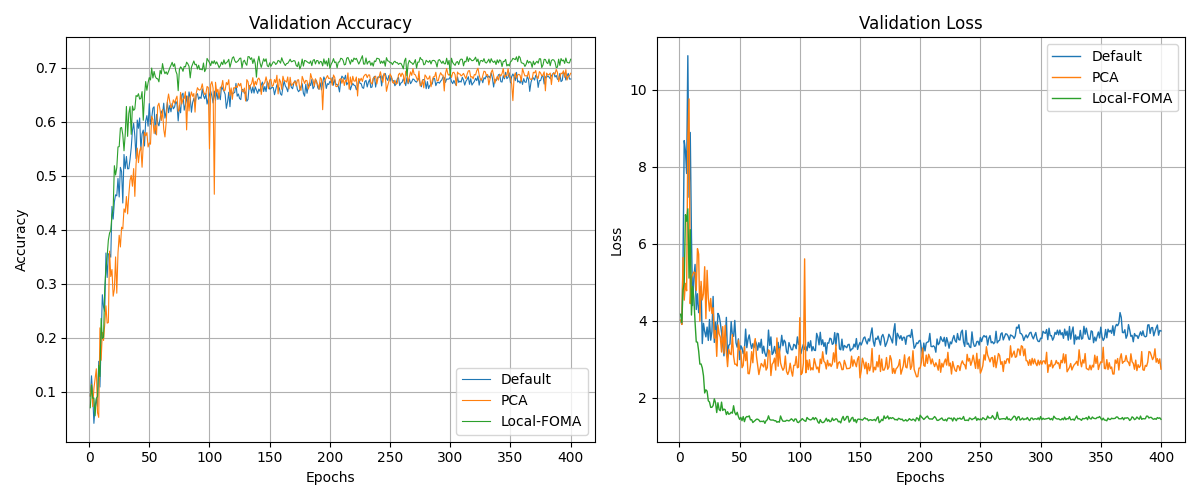
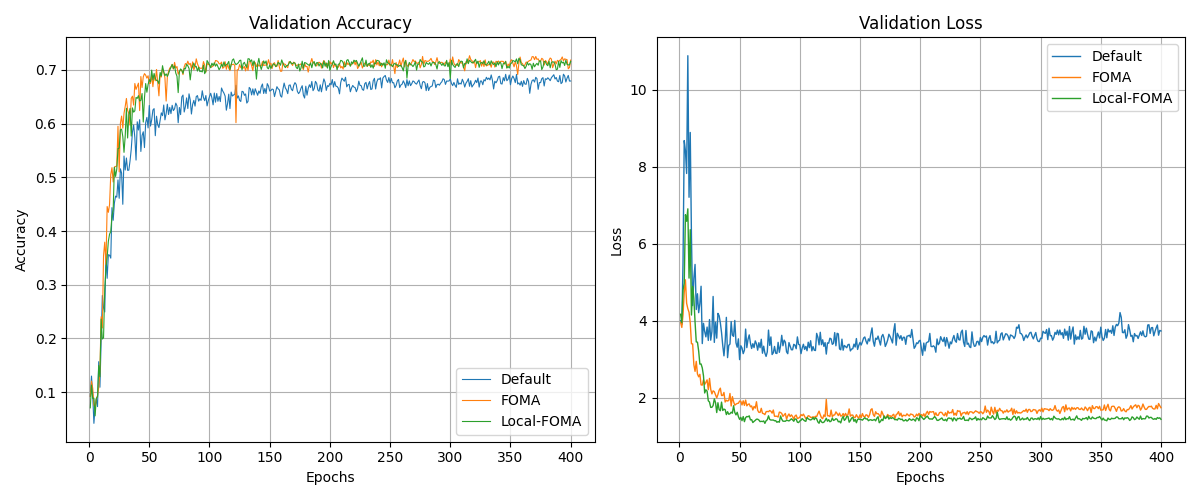
foma-knn-curriculum

diff --git a/src/methods/foma.py b/src/methods/foma.py
@@ -125,7 +125,7 @@ def local_foma(
     return X_aug, Y_aug
 
 
-def compute_foma_loss(model, images, labels, augment, lambda_almp=1.0, device='cuda'):
+def compute_foma_loss(model, images, labels, augment, k, lambda_almp=1.0, device='cuda'):
     model.train()
     images = images.to(device)
     labels = labels.to(device)
@@ -141,7 +141,7 @@ def compute_foma_loss(model, images, labels, augment, lambda_almp=1.0, device='c
     if augment == "FOMA":
         features_foma, labels_foma = foma(features, labels, num_classes=100, alpha=1.0, rho=0.9)
     elif augment == "Local-FOMA" or augment == "FOMA-scaleup":
-        features_foma, labels_foma = local_foma(features, labels, num_classes=100, alpha=1.0, rho=0.9)
+        features_foma, labels_foma = local_foma(features, labels, num_classes=100, alpha=1.0, rho=0.9, k=k)
     logits_foma = model.linear(features_foma)
     loss_foma = F.cross_entropy(logits_foma, labels_foma)
     # loss_foma = F.kl_div(

diff --git a/src/utils.py b/src/utils.py
@@ -183,6 +183,17 @@ def train(model, train_loader, criterion, optimizer, device, augment, num_classe
         elif augment == "Local-FOMA":
             loss, preds = compute_foma_loss(model, images, labels, augment, lambda_almp=1.0, device=device)
         
+        elif augment == "FOMA-knn-Curriculum":
+            if epochs < 100:
+                k = 10
+            elif epochs >= 100 and epochs < 200:
+                k = 20
+            elif epochs >= 200 and epochs < 300:
+                k = 30
+            elif epochs >= 300 and epochs < 400:
+                k = 40
+            loss, preds = compute_foma_loss(model, images, labels, augment, k, lambda_almp=1.0, device=device)
+        
         elif augment == "PCA":
             loss, preds = compute_almp_loss_wrn(model, images, labels, method="pca", lambda_almp=1.0, device=device)
         

diff --git a/train.py b/train.py
@@ -56,8 +56,9 @@ augmentations = [
     # "FOMA-scaleup"
     # "Mixup+FOMA",
     # "FOMix",
-    "Local-FOMA",
+    # "Local-FOMA",
     # "FOMA",
+    "FOMA-knn-Curriculum",
 
     # "Mixup-Original",
     # "Mixup-PCA",
@@ -66,7 +67,7 @@ augmentations = [
 ]
 
 def main():
-    for i in range(2, 3):
+    for i in range(1):
         parser = argparse.ArgumentParser()
         parser.add_argument("--epochs",     type=int, default=400)
         parser.add_argument("--data_type",  type=str, default="cifar100",  choices=["stl10", "cifar100", "cifar10"])

diff --git a/result.py b/result.py
@@ -21,7 +21,7 @@ def main():
         # "Original",
         "Default",
         # "PCA",
-        "SVD",
+        # "SVD",
 
         # "Conf-Mixup",
 
@@ -45,7 +45,7 @@ def main():
         # "Teacher-SK-Mixup",
         # "Teacher-SK-Mixup-Curriculum",
 
-        # "FOMA",
+        "FOMA",
         # "FOMA-scaleup",
         "Local-FOMA",
         # "FOMA_latent_random",
